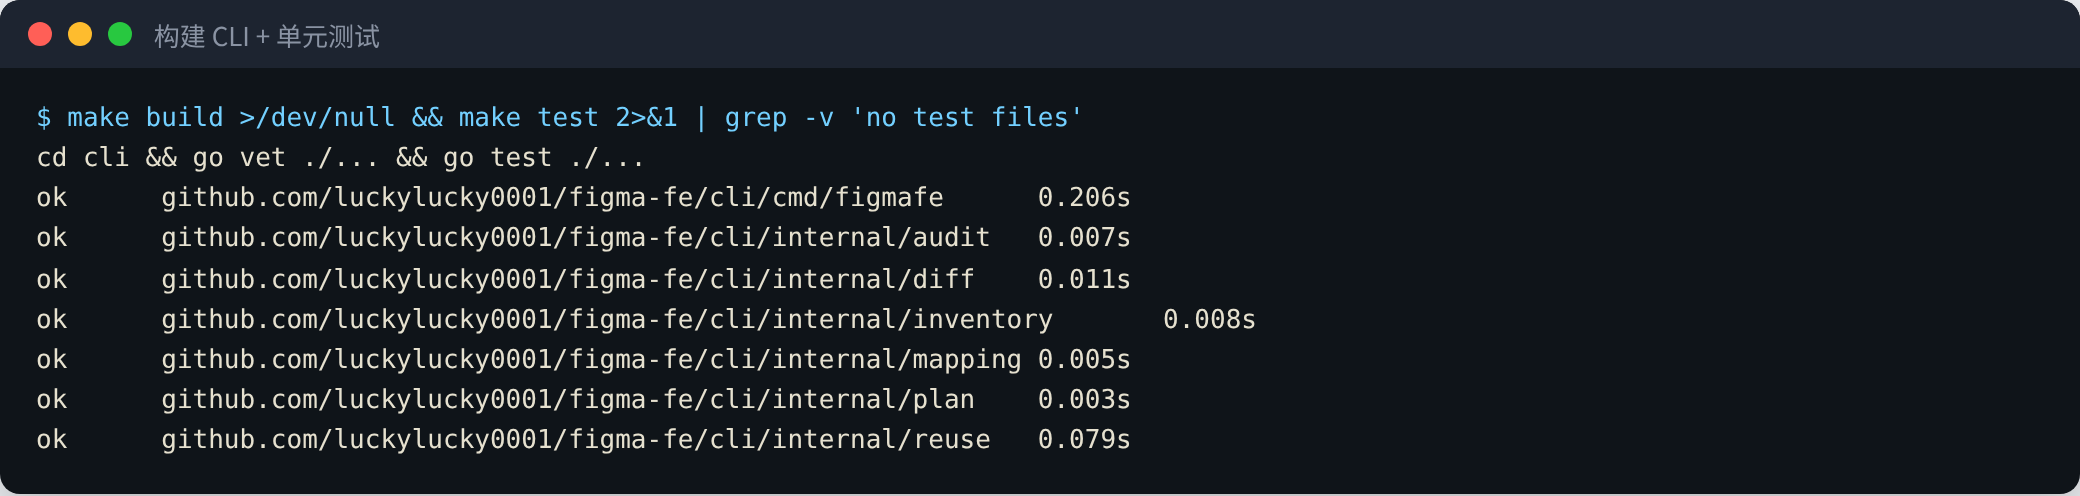
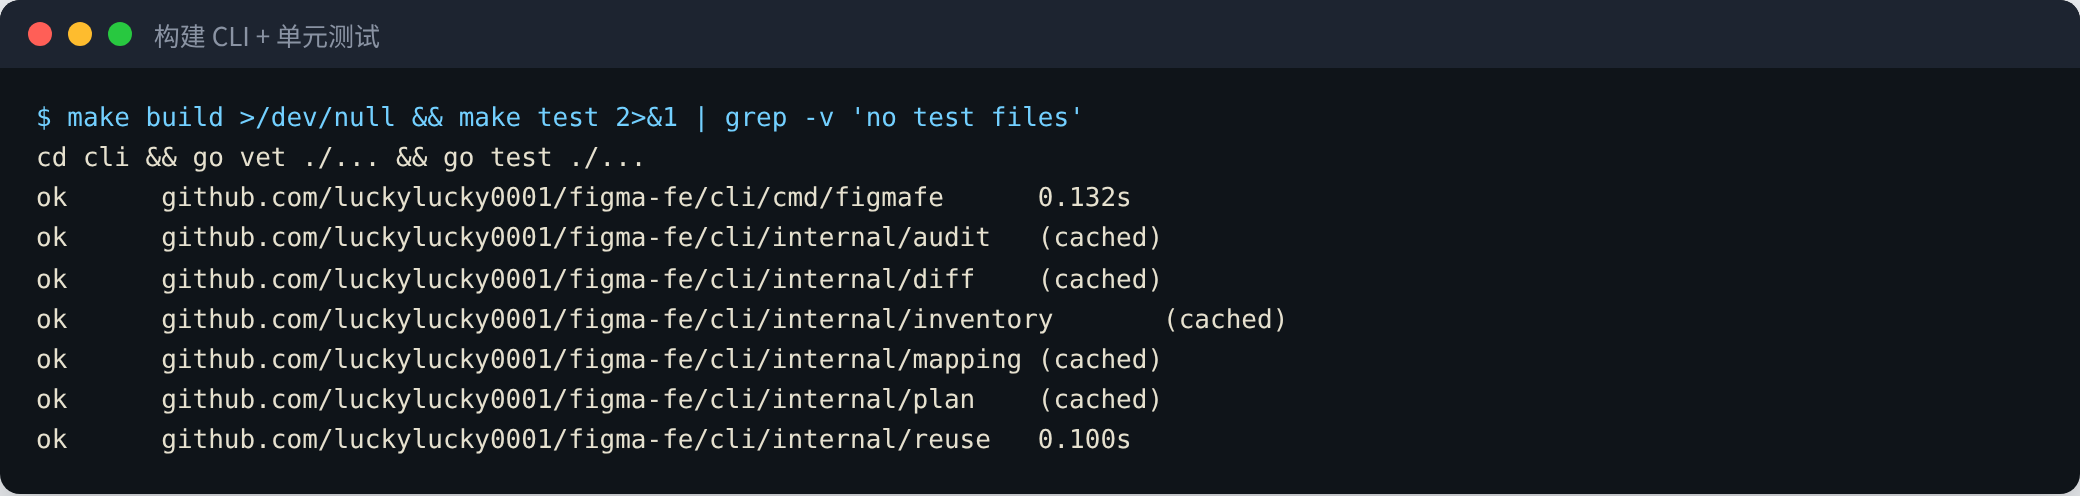
docs(tutorial): brownfield screenshots (health checks on newbee / QMUI / Now in Android, match overlays, page check A vs C, PR gate, eval); match html shows only resolved prop mappings
Claude-Session: https://claude.ai/code/session_012SNZin2zVdWRZjyU7amv9z

diff --git a/cli/internal/reuse/overlay.go b/cli/internal/reuse/overlay.go
@@ -52,8 +52,14 @@ func (m *MatchResult) HTML(exp *figma.Export, img string) string {
 			if c.Example != "" {
 				ex = "<code>" + html.EscapeString(c.Example) + "</code>"
 			}
-			if len(c.Props) > 0 {
-				ex += "<br><em>" + html.EscapeString(strings.Join(c.Props, "；")) + "</em>"
+			var ok []string // resolved mappings only; the unresolved notes stay in the .md for the agent
+			for _, p := range c.Props {
+				if strings.Contains(p, "→") {
+					ok = append(ok, p)
+				}
+			}
+			if len(ok) > 0 {
+				ex += "<br><em>" + html.EscapeString(strings.Join(ok, "；")) + "</em>"
 			}
 		}
 		fmt.Fprintf(&rows, `<tr><td>%s</td><td><b style="color:%s">%s</b></td><td><code>%s</code></td><td>%s</td><td>%s</td></tr>`,
@@ -71,7 +77,7 @@ body{margin:0;font:13px/1.5 -apple-system,"PingFang SC","Noto Sans SC",sans-seri
 .side{flex:1;min-width:360px}
 h1{font-size:18px;margin:0 0 4px}.sum{color:#646a73;margin:0 0 12px}
 table{border-collapse:collapse;width:100%%;background:#fff}td,th{border:1px solid #e5e6eb;padding:6px 8px;text-align:left;vertical-align:top}
-th{background:#f2f3f5}td:nth-child(-n+3){white-space:nowrap}code{font-size:12px;word-break:break-all}em{color:#646a73;font-style:normal}
+th{background:#f2f3f5}td:nth-child(-n+3){white-space:nowrap}td:last-child{min-width:300px}code{font-size:12px;word-break:break-all}em{color:#646a73;font-style:normal}
 </style></head><body><div class="wrap">
 <div class="frame"><img src="%s" alt="Figma frame">%s</div>
 <div class="side"><h1>新设计稿复用清单：%s</h1>
